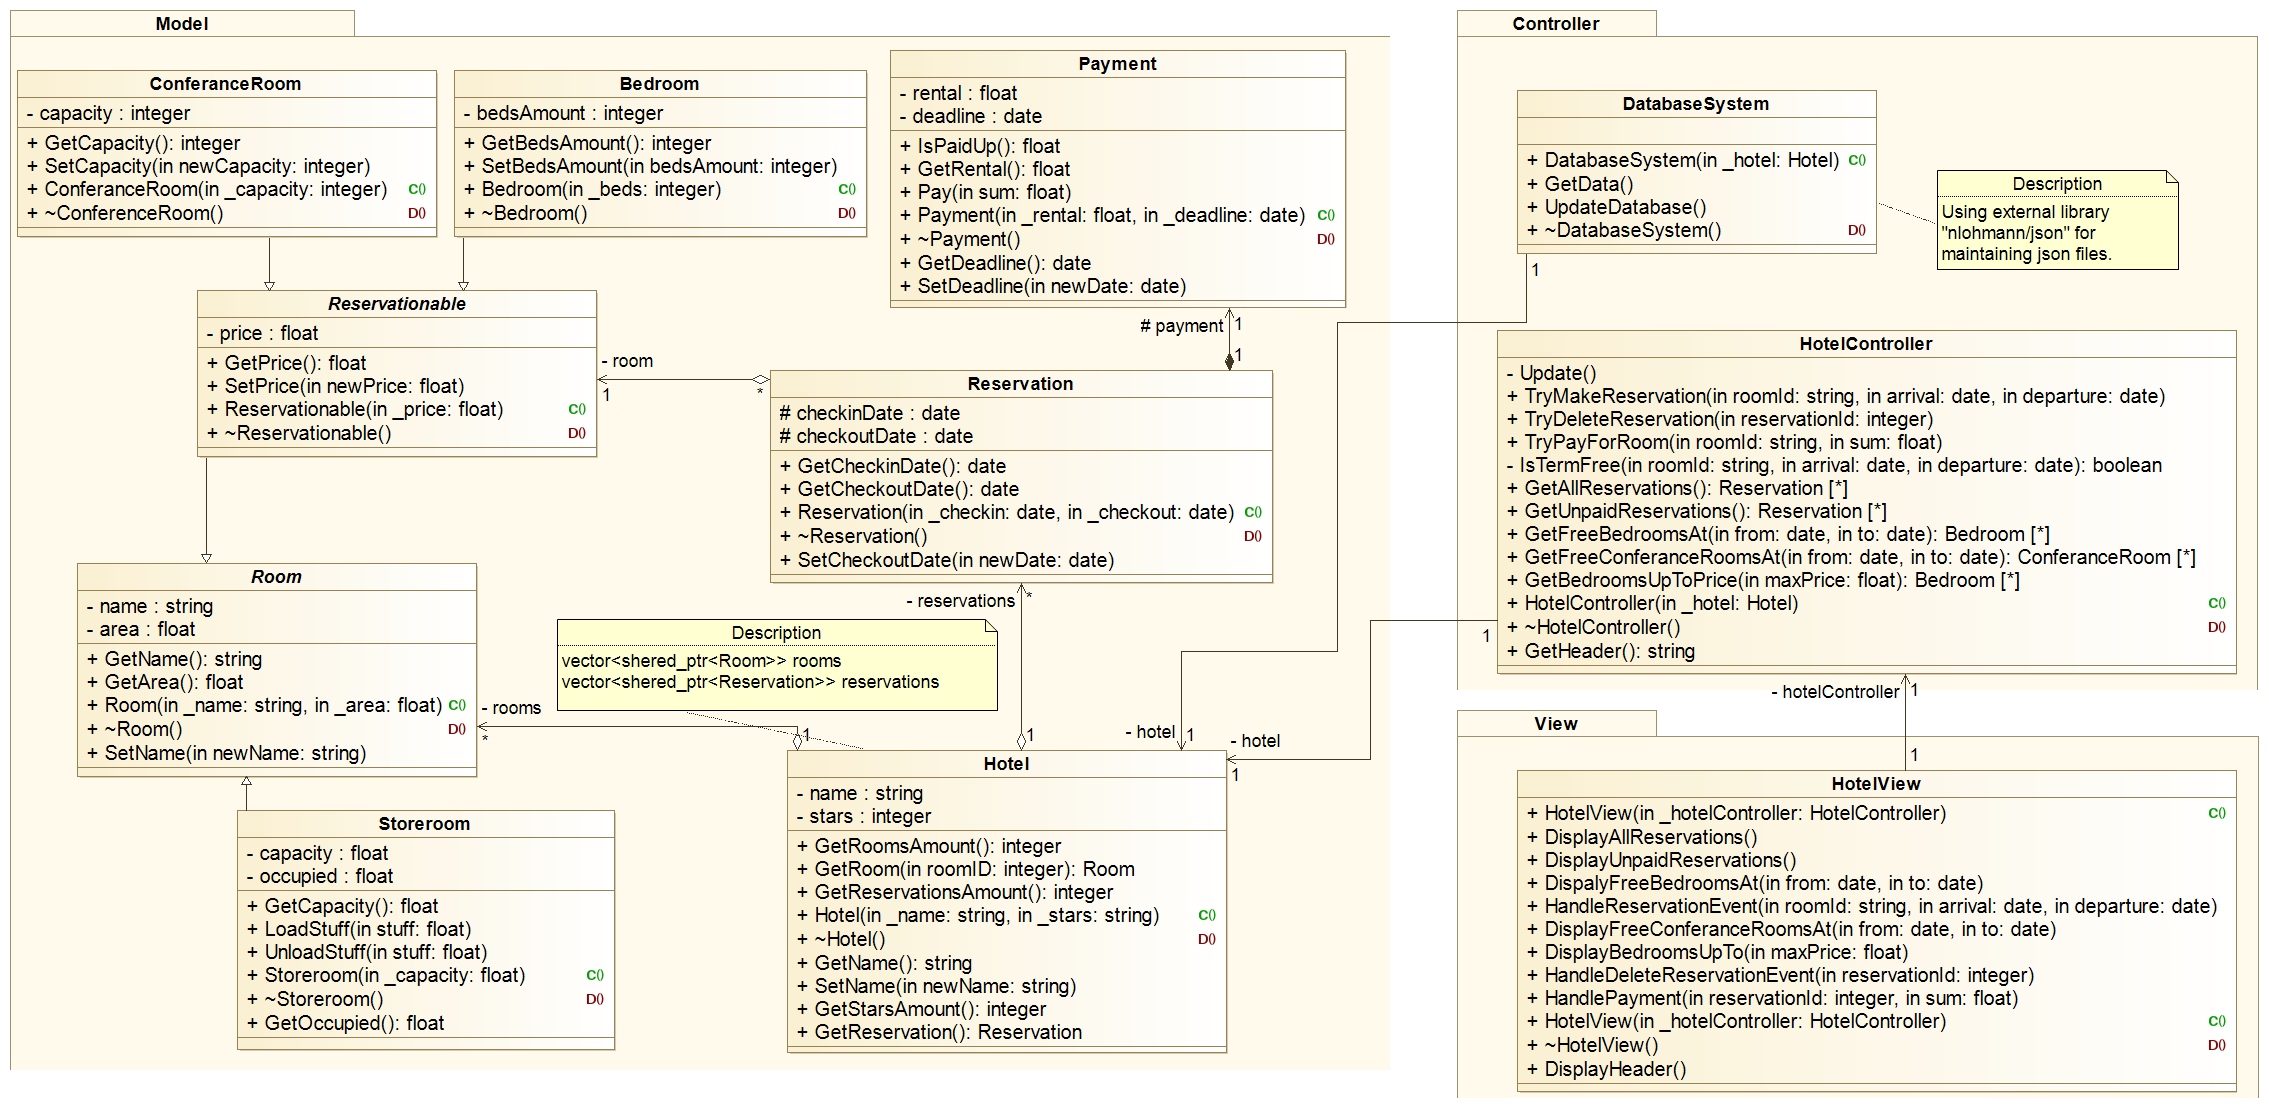
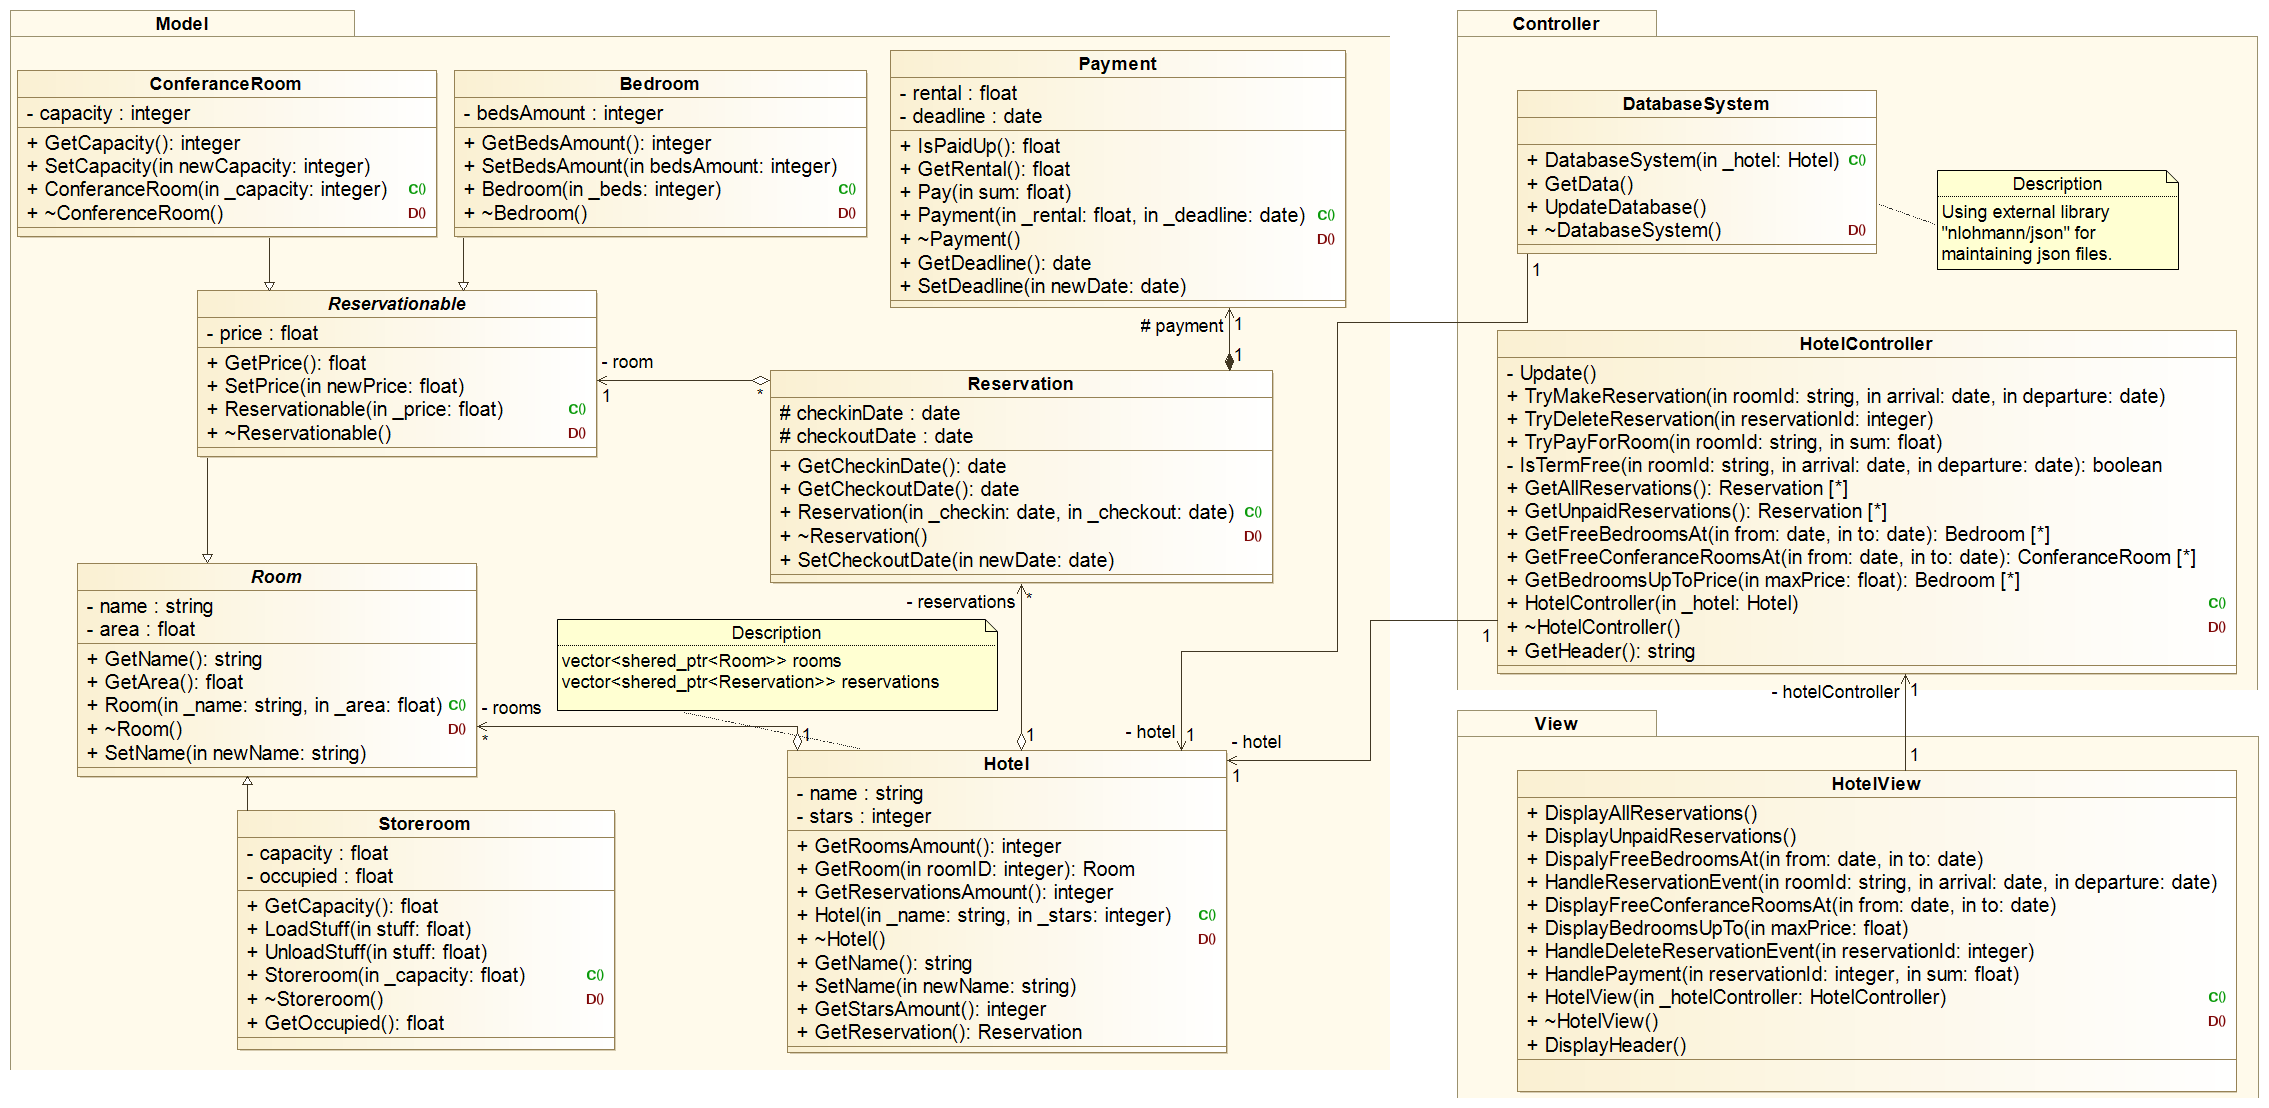
Added Model Classes
Some of functions in (Bedroom, ConferanceRoom, Reservation) are not implemented
Payment require refactoring

Changed region(s): [[0.6787, 0.7058, 0.9872, 0.9819], [0.4011, 0.5217, 0.4628, 0.5523], [0.4936, 0.7978, 0.5245, 0.8285]]

diff --git a/library/src/Payment.cpp b/library/src/Payment.cpp
@@ -1,0 +1,43 @@
+#include "Payment.h"
+#include <stdexcept>
+
+Payment::Payment(float _rental, std::tm _deadline)
+: rental(_rental), deadline(_deadline) {}
+
+float Payment::GetRental(){
+    return this->rental;
+}
+
+std::tm Payment::GetDeadline(){
+    return this->deadline;
+}
+
+void Payment::SetDeadline(std::tm newDeadline){
+    if( (newDeadline.tm_year < this->deadline.tm_year)
+      || (newDeadline.tm_year == this->deadline.tm_year && newDeadline.tm_mon < this->deadline.tm_mon)
+      || (newDeadline.tm_year == this->deadline.tm_year && newDeadline.tm_mon == this->deadline.tm_mon && newDeadline.tm_mday < this->deadline.tm_mday)
+    )
+        throw std::logic_error("Deadline cannot be regress");
+    else
+        this->deadline = newDeadline;
+}
+
+bool Payment::IsPaidUp(){
+    return rental <= 0;
+}
+
+bool Payment::HasExpired(){
+    time_t now = time(0);
+    time ( &now );
+    std::tm * currentTime = localtime ( &now );
+    if ( (currentTime->tm_year > this->deadline.tm_year)
+      || (currentTime->tm_year == this->deadline.tm_year && currentTime->tm_mon > this->deadline.tm_mon) 
+      || (currentTime->tm_year == this->deadline.tm_year && currentTime->tm_mon == this->deadline.tm_mon && currentTime->tm_mday > this->deadline.tm_mday)
+      || (currentTime->tm_year == this->deadline.tm_year && currentTime->tm_mon == this->deadline.tm_mon && currentTime->tm_mday == this->deadline.tm_mday && currentTime->tm_hour > this->deadline.tm_hour)  ){
+        delete(currentTime);
+        return true;
+    }
+
+    delete(currentTime);
+    return false;
+}

diff --git a/program/src/main.cpp b/program/src/main.cpp
@@ -1,15 +1,23 @@
 #include <iostream>
 #include "Hotel.h"
-
-using namespace std;
+#include <chrono>
 
 int main() {
     Hotel hotel("Grand Hotel", 5);
-    cout << "Welcom in " << hotel.GetName() << " (";
+    std::cout << "Welcom in " << hotel.GetName() << " (";
     for(int i = 0; i < hotel.GetStarsAmount(); i++)
-        cout << "*";
-    cout << ")" << endl;
-    
-    cout << endl;
+        std::cout << "*";
+    std::cout << ")" << std::endl;
+
+   constexpr int DAY = 9;
+   constexpr int MONTH = 1;
+   constexpr int YEAR = 2014;
+   constexpr int PERIOD = 4;
+
+    std::tm checkInDate = {0, 0, 10, (DAY), MONTH, YEAR };
+    std::tm checkOutDate = {0, 0, 10, (DAY+PERIOD), MONTH, YEAR };
+    std::cout << checkInDate.tm_mday << " - " << checkInDate.tm_mon << " - " << checkInDate.tm_year << std::endl;
+    std::cout << checkOutDate.tm_mday << " - " << checkOutDate.tm_mon << " - " << checkOutDate.tm_year;
+    std::cout << std::endl;
     return 0;
 }

diff --git a/library/src/Storeroom.cpp b/library/src/Storeroom.cpp
@@ -1,0 +1,29 @@
+#include "Storeroom.h"
+#include <stdexcept>
+
+Storeroom::Storeroom(float _capacity) 
+: capacity(_capacity), occupied(0.0) {}
+
+float Storeroom::GetCapacity(){
+    return this->capacity; 
+}
+
+float Storeroom::GetOccupied(){
+    return this->occupied;
+}
+
+void Storeroom::Load(float stuff){
+    if(this->occupied + stuff <= this->capacity){
+        this->occupied += stuff;
+    } else {
+        throw std::out_of_range("Not enought space in storeroom");
+    }
+}
+
+void Storeroom::Unload(float stuff){
+    if(this->occupied - stuff >= 0){
+        this->occupied -= stuff;
+    } else {
+        throw std::out_of_range("No so many stuff in storeroom");
+    }
+}

diff --git a/library/src/ConferanceRoom.cpp b/library/src/ConferanceRoom.cpp
@@ -1,0 +1,21 @@
+#include "ConferanceRoom.h"
+#include <stdexcept>
+
+ConferanceRoom::ConferanceRoom(std::string _name, float _area, float _price, int _capacity)
+: Reservationable(_name, _area, _price), capacity(_capacity) {}
+
+int ConferanceRoom::GetCapacity(){
+    return this->capacity;
+}
+
+void ConferanceRoom::SetCapacity(int newCapacity){
+    if(newCapacity > 0)
+        this->capacity = newCapacity;
+    else
+        throw std::out_of_range("Unexcepted non-positive capacity");
+}
+
+void ConferanceRoom::Reserve(std::tm checkInDate, int period){
+    // missing implementation !!!!!!!!!!
+    return;
+}

diff --git a/library/src/Reservation.cpp b/library/src/Reservation.cpp
@@ -1,0 +1,23 @@
+#include "Reservation.h"
+
+Reservation::Reservation(std::tm _checkin, std::tm _checkout, float _price)
+: checkinDate(_checkin), checkoutDate(_checkout) {
+    this->payment = std::make_shared<Payment>(_price, _checkout);
+}
+
+std::tm Reservation::GetCheckinDate(){
+    return this->checkinDate;
+}
+
+std::tm Reservation::GetCheckoutDate(){
+    return this->checkoutDate;
+}
+
+void Reservation::SetCheckoutDate(std::tm newCheckoutDate){
+    // missing implementation 
+    return;
+}
+
+std::shared_ptr<Payment> Reservation::GetPayment(){
+    return this->payment;
+}

diff --git a/library/src/Bedroom.cpp b/library/src/Bedroom.cpp
@@ -1,0 +1,21 @@
+#include "Bedroom.h"
+#include <stdexcept>
+
+Bedroom::Bedroom(std::string _name, float _area, float _price, int _beds)
+: Reservationable(_name, _area, _price), bedsAmount(_beds) {}
+
+int Bedroom::GetBedsAmount(){
+    return this->bedsAmount;
+}
+
+void Bedroom::SetBedsAmount(int newBedsAmount){
+    if(newBedsAmount > 0)
+        this->bedsAmount = newBedsAmount;
+    else
+        throw std::out_of_range("Unexcepted non-positive beds amount");
+}
+
+void Bedroom::Reserve(std::tm checkInDate, int period){
+    // missing implementation !!!!!!!!!!
+    return;
+}

diff --git a/library/include/Reservationable.h b/library/include/Reservationable.h
@@ -1,0 +1,22 @@
+#ifndef RESERVATIONABLE_H
+#define RESERVATIONABLE_H
+
+#include <chrono>
+#include <vector>
+#include <memory>
+#include "Room.h"
+#include "Reservation.h"
+
+class Reservationable : public Room {
+private:
+    float price;
+    std::vector<std::shared_ptr<Reservation>> reservations;
+public:
+    Reservationable(std::string _name, float _area, float _price);
+    ~Reservationable() = default;
+    float GetPrice();
+    void SetPrice(float newPrice);
+    virtual void Reserve(std::tm checkInDate, int period) = 0;
+};
+
+#endif

diff --git a/library/include/Reservation.h b/library/include/Reservation.h
@@ -1,0 +1,21 @@
+#ifndef RESERVATION_H
+#define RESERVATION_H
+
+#include <memory>
+#include "Payment.h"
+
+class Reservation {
+private:
+    std::tm checkinDate;
+    std::tm checkoutDate;
+    std::shared_ptr<Payment> payment;
+public:
+    Reservation(std::tm _checkin, std::tm _checkout, float _price);
+    ~Reservation() = default;
+    std::tm GetCheckinDate();
+    std::tm GetCheckoutDate();
+    void SetCheckoutDate(std::tm newCheckoutDate);
+    std::shared_ptr<Payment> GetPayment();
+};
+
+#endif

diff --git a/library/include/ConferanceRoom.h b/library/include/ConferanceRoom.h
@@ -1,0 +1,17 @@
+#ifndef CONFERANCE_ROOM_H
+#define CONFERANCE_ROOM_H
+
+#include <Reservationable.h>
+
+class ConferanceRoom : public Reservationable {
+private:
+    int capacity;
+public:
+    ConferanceRoom(std::string _name, float _area, float _price, int _capacity);
+    ~ConferanceRoom() = default;
+    int GetCapacity();
+    void SetCapacity(int newCapacity);
+    void Reserve(std::tm checkInDate, int period) override;
+};
+
+#endif

diff --git a/library/src/Reservationable.cpp b/library/src/Reservationable.cpp
@@ -1,0 +1,16 @@
+#include "Reservationable.h"
+#include <stdexcept>
+
+Reservationable::Reservationable(std::string _name, float _area, float _price)
+: Room(_name, _area), price(_price) {}
+
+float Reservationable::GetPrice(){
+    return this->price;
+}
+
+void Reservationable::SetPrice(float newPrice){
+    if(newPrice > 0)
+        this->price = newPrice;
+    else
+        throw std::out_of_range("Unexcepted non-positive price");
+}

diff --git a/library/include/Hotel.h b/library/include/Hotel.h
@@ -2,15 +2,20 @@
 #define HOTEL_H
 
 #include <string>
+#include <vector>
+#include <memory>
+#include "Room.h"
 
 class Hotel {
-private: 
+private:
     std::string name;
     int stars;
+    std::vector<std::shared_ptr<Room>> rooms;
 public:
     Hotel(std::string _name, int _stars);
     ~Hotel() = default;
     std::string GetName();
+    void SetName(std::string newName);
     int GetStarsAmount();
 };
 

diff --git a/library/include/Bedroom.h b/library/include/Bedroom.h
@@ -1,0 +1,17 @@
+#ifndef BEDROOM_H
+#define BEDROOM_H
+
+#include <Reservationable.h>
+
+class Bedroom : public Reservationable{
+private:
+    int bedsAmount;
+public:
+    Bedroom(std::string _name, float _area, float _price, int _beds);
+    ~Bedroom() = default;
+    int GetBedsAmount();
+    void SetBedsAmount(int newBedsAmount);
+    void Reserve(std::tm checkInDate, int period) override;
+};
+
+#endif
